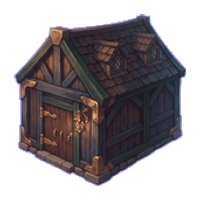
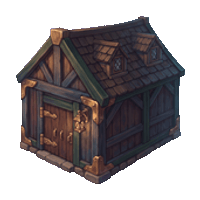
Ship refits show what is still shut, and the Brassbound Hall loses its violet rim
A gated refit used to be absent until its gate was met, so a captain who had not
cleared the Blockade opened Refits and found one tile in an empty grid - which
reads as a room with nothing in it rather than a room with things to come. They
are drawn shut now: the name stays, the numbers and the verb go, and it says
"Not yet unlocked". It does not say what opens it, because naming the boss is
the same spoiler the chart and the campaign panel already refuse to give.

The reserved grid height drops its arithmetic with them - the tabs hold three,
two and one whoever is looking, which is what that reservation was reaching for.

And hall_3 had a violet rim baked into the plate: 1,173 pixels, 503 of them
fully opaque, so it was painted in rather than an alpha fringe. Cut and healed
from the solid core, and hall_5 had the same thing.

diff --git a/web/app/(app)/expeditions/ShipHero.tsx b/web/app/(app)/expeditions/ShipHero.tsx
@@ -461,9 +461,54 @@ const HERO_TIER_SCALE: Record<number, number> = {
 const shipPanelBg = (tint?: string) =>
   tint ? `linear-gradient(${tint}, ${tint}), ${SHIP_PANEL}` : SHIP_PANEL
 
-function ShipTile({ accent, title, value, sub, cta, icon, onClick }: {
-  accent: string; title: string; value: string; sub?: string; cta: string; icon: React.ReactNode; onClick: () => void
+/**
+ * ── A REFIT, AND THE SHUT VERSION OF ONE ────────────────────────────────────
+ *
+ * `locked` renders the same tile with the middle taken out: the name stays, the
+ * numbers and the verb go, and it says it is not open yet.
+ *
+ * IT IS STILL DRAWN, and that is the point. These used to be absent until their
+ * gate was met, so a captain who had not cleared the Blockade opened Refits and
+ * found one tile in an empty grid — which reads as a room with nothing in it
+ * rather than a room with things to come. Drawn shut, the grid says how big the
+ * ship gets.
+ *
+ * AND IT DOES NOT SAY WHAT OPENS IT. Naming the boss is the same spoiler the
+ * chart and the campaign panel already refuse to give: you find out by getting
+ * there. "Not yet" is the whole message.
+ */
+function ShipTile({ accent, title, value, sub, cta, icon, onClick, locked = false }: {
+  accent: string; title: string; value: string; sub?: string; cta: string
+  icon: React.ReactNode; onClick: () => void; locked?: boolean
 }) {
+  if (locked) {
+    return (
+      <div style={{
+        display: 'flex', flexDirection: 'column', gap: 3, textAlign: 'left',
+        padding: '0.75rem 0.7rem', borderRadius: 13, minHeight: 98,
+        background: shipPanelBg('rgba(255,255,255,0.02)'),
+        border: '1px dashed rgba(255,255,255,0.14)',
+      }}>
+        <div style={{ display: 'flex', alignItems: 'center', justifyContent: 'space-between', gap: 6, marginBottom: 3 }}>
+          <span style={{
+            flexShrink: 0, width: 30, height: 30, borderRadius: 8,
+            background: 'rgba(255,255,255,0.04)', border: '1px solid rgba(255,255,255,0.12)',
+            display: 'flex', alignItems: 'center', justifyContent: 'center',
+            opacity: 0.35, filter: 'grayscale(1)',
+          }}>{icon}</span>
+          <span aria-hidden style={{ flexShrink: 0, color: 'rgba(255,255,255,0.3)', display: 'flex' }}>
+            <svg width="12" height="12" viewBox="0 0 24 24" fill="none" stroke="currentColor" strokeWidth="2.2" strokeLinecap="round" strokeLinejoin="round">
+              <rect x="4" y="11" width="16" height="10" rx="2" /><path d="M8 11V7a4 4 0 0 1 8 0v4" />
+            </svg>
+          </span>
+        </div>
+        <p className="font-karla font-700 uppercase tracking-[0.12em]" style={{ fontSize: '0.48rem', color: 'rgba(255,255,255,0.34)' }}>{title}</p>
+        <p className="font-karla" style={{ fontSize: '0.68rem', color: 'rgba(255,255,255,0.34)', lineHeight: 1.25, fontStyle: 'italic', marginTop: 2 }}>
+          Not yet unlocked
+        </p>
+      </div>
+    )
+  }
   return (
     <button type="button" onClick={onClick}
       style={{ display: 'flex', flexDirection: 'column', gap: 3, textAlign: 'left', padding: '0.75rem 0.7rem', borderRadius: 13, background: shipPanelBg(`${accent}1c`), border: `1px solid ${accent}4a`, cursor: 'pointer', minHeight: 98 }}>
@@ -2305,11 +2350,11 @@ export default function ShipHero({
                 // computed from what THIS captain has unlocked rather than
                 // hardcoded, so an early player is not staring at reserved space
                 // for refits they cannot buy yet.
-                const tabTileCounts = [
-                  1 + ((blockadeCleared || hasSixthBerth) ? 1 : 0) + ((throneCleared || hasArmoryExpansion) ? 1 : 0),
-                  (showUltimate ? 1 : 0) + 1,
-                  1,
-                ]
+                // AND THE COUNTS ARE FIXED NOW. A gated refit is DRAWN when it
+                // is shut rather than left out (see ShipTile), so the tabs hold
+                // three, two and one whoever is looking — which is what the
+                // reservation was reaching for in the first place.
+                const tabTileCounts = [3, 2, 1]
                 // Reserved height at BOTH column counts, because the grid is
                 // 2-across on a phone and 3-across on a desktop and CSS cannot
                 // count the tiles to work the rows out for itself.
@@ -2469,6 +2514,11 @@ export default function ShipHero({
                       '--tiles-h-wide': `${reserve(3)}px`,
                     } as React.CSSProperties}>
                       {/* Ultimate Weapon */}
+                      {shipTab === 'armament' && !showUltimate && (
+                        <ShipTile locked accent="#f0c040" title="Ultimate Weapon" value="" cta=""
+                          icon={<svg width="16" height="16" viewBox="0 0 24 24" fill="none" stroke="#f0c040" strokeWidth="2.2" strokeLinecap="round" strokeLinejoin="round"><path d="M13 2 3 14h7l-1 8 10-12h-7l1-8z"/></svg>}
+                          onClick={() => {}} />
+                      )}
                       {shipTab === 'armament' && showUltimate && (() => {
                         const activeAug = initialManowarAugment ? getShipAugment(initialManowarAugment) : null
                         const buildAug  = manowarBuild ? getShipAugment(manowarBuild.id) : null
@@ -2487,7 +2537,14 @@ export default function ShipHero({
                           />
                         )
                       })()}
-                      {/* Sixth Berth — same unlock gate as the panel (Raid 7 / owned). */}
+                      {/* Sixth Berth — same unlock gate as the panel (Raid 7 /
+                          owned), and drawn shut rather than absent when it is
+                          not met. See ShipTile's note. */}
+                      {shipTab === 'refits' && !(blockadeCleared || hasSixthBerth) && (
+                        <ShipTile locked accent="#ffd56b" title="Sixth Berth" value="" cta=""
+                          icon={<svg width="16" height="16" viewBox="0 0 24 24" fill="none" stroke="#ffd56b" strokeWidth="2.2" strokeLinecap="round" strokeLinejoin="round"><circle cx="9" cy="7" r="3"/><path d="M2 21v-2a4 4 0 0 1 4-4h6a4 4 0 0 1 4 4v2"/><path d="M19 8v6M22 11h-6"/></svg>}
+                          onClick={() => {}} />
+                      )}
                       {shipTab === 'refits' && (blockadeCleared || hasSixthBerth) && (
                         <ShipTile
                           accent="#ffd56b"
@@ -2500,6 +2557,11 @@ export default function ShipHero({
                         />
                       )}
                       {/* Expanded Armory — same unlock gate as the panel (Raid 8 / owned). */}
+                      {shipTab === 'refits' && !(throneCleared || hasArmoryExpansion) && (
+                        <ShipTile locked accent="#c084fc" title="Expanded Armory" value="" cta=""
+                          icon={<svg width="16" height="16" viewBox="0 0 24 24" fill="none" stroke="#c084fc" strokeWidth="2.2" strokeLinecap="round" strokeLinejoin="round"><rect x="3" y="3" width="7" height="7" rx="1.5"/><rect x="14" y="3" width="7" height="7" rx="1.5"/><rect x="3" y="14" width="7" height="7" rx="1.5"/><path d="M17.5 14v7M14 17.5h7"/></svg>}
+                          onClick={() => {}} />
+                      )}
                       {shipTab === 'refits' && (throneCleared || hasArmoryExpansion) && (
                         <ShipTile
                           accent="#a78bfa"
